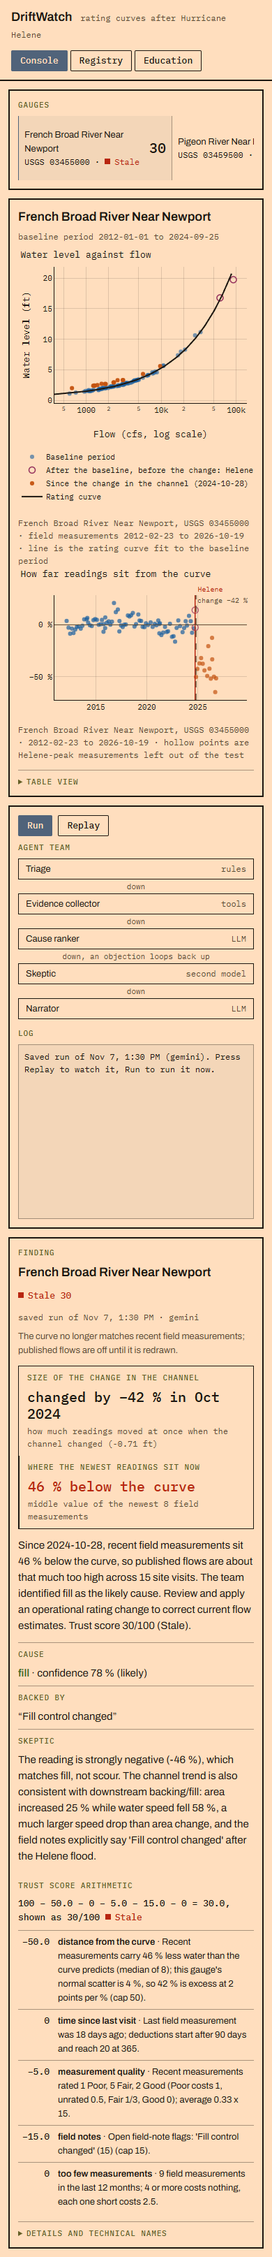
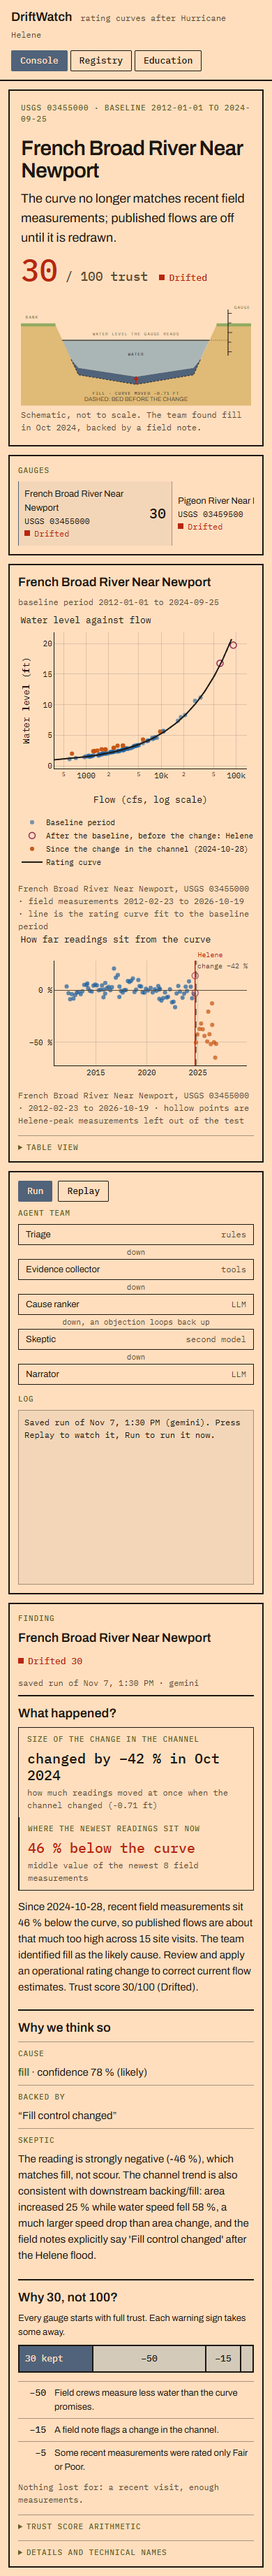
console-redesign: Gemini eval column, redesign screenshots

Changed region(s): [[0.0308, 0.0, 0.9538, 1.0], [0.9231, 0.5881, 0.9538, 0.65]]

diff --git a/docs/eval_report.md b/docs/eval_report.md
@@ -1,29 +1,30 @@
 # DriftWatch eval report
 
-Generated 2026-11-07 23:56 UTC by `make evals` on thoth (aarch64). Cases: `evals/cases.yaml`; runner: `evals/run_evals.py`.
+Generated 2026-11-08 00:05 UTC by `make evals` on DESKTOP-4F7F34V (AMD64). Cases: `evals/cases.yaml`; runner: `evals/run_evals.py`.
 
-**LLM=fallback: 11/13 pass**, 71 s total. Each cell gives pass/fail, the case's wall time, and what was checked.
+**LLM=fallback: 11/13 pass**, 252 s total. Each cell gives pass/fail, the case's wall time, and what was checked.
 
 Cases 4 and 9-13 never call an LLM (deterministic report, synthetic data, replay), so their result is the same in every column. The LLM=gemini column is filled by `make evals LLM=gemini` on the laptop (needs the Vertex credentials).
 
 | # | Case | LLM=fallback | LLM=gemini |
 |---|---|---|---|
-| 1 | Newport - Stale, fill, cites the field note | PASS (3.6 s) band Stale (want Stale); cause fill (0.44); 'Fill control changed' cited as fill evidence | [run on laptop] |
-| 2 | Hepco - Stale, Disagreement against the scour note | PASS (6.1 s) band Stale (want Stale); Disagreement yes; field note 'Scour control changed' (2024-12-17); best guess fill | [run on laptop] |
-| 3 | Asheville - Stale, cause open, no mechanism named | PASS (7.4 s) band Stale (want Stale); cause_status open; no mechanism words | [run on laptop] |
-| 4 | Mills - Watch, significant lower trend, no step | PASS (29.9 s) band Watch (want Watch); 0 shift(s) in the whole series; trend -0.84 %/yr, p 3.9e-13, CI -1.10..-0.60, significant=True | [run on laptop] |
-| 5 | Swannanoa - Trusted, no cause | PASS (4.2 s) band Trusted (want Trusted); no cause named | [run on laptop] |
-| 6 | South Toe - Trusted, no cause | PASS (3.9 s) band Trusted (want Trusted); no cause named | [run on laptop] |
-| 7 | Watauga - Trusted, no cause | PASS (3.4 s) band Trusted (want Trusted); no cause named | [run on laptop] |
-| 8 | Eno - Trusted, no cause | PASS (2.1 s) band Trusted (want Trusted); no cause named | [run on laptop] |
-| 9 | Eno + synthetic +25 % step at 2025-07-01 - fires | **FAIL** (1.2 s) no positive shift near 2025-07-01; shifts: 2022-09-06 -17 %, 2022-11-28 +24 % | [run on laptop] |
-| 10 | Eno + synthetic -1.5 %/yr slope - trend fires, no step | **FAIL** (1.4 s) 1 shift(s) in the whole series; trend -1.41 %/yr, p 0.54, CI -4.99..+8.21, significant=False | [run on laptop] |
-| 11 | Eno flat (resampled reference residuals, seed 0) - 0 shifts | PASS (4.9 s) 0 shift(s) in the whole series | [run on laptop] |
-| 12 | Replay determinism | PASS (0.5 s) two fallback runs identical; 03459500-20261107T180218430129Z.json: 20 events replay identically twice | [run on laptop] |
-| 13 | Swannanoa + synthetic +25 % step at 2025-01-01 - fires | PASS (2.7 s) shift 2025-06-11 +31.0 % (+0.14 ft) | [run on laptop] |
+| 1 | Newport - Stale, fill, cites the field note | PASS (0.3 s) band Stale (want Stale); cause fill (0.44); 'Fill control changed' cited as fill evidence | PASS (44.2 s) band Stale (want Stale); cause fill (0.84); 'Fill control changed' cited as fill evidence |
+| 2 | Hepco - Stale, Disagreement against the scour note | PASS (0.7 s) band Stale (want Stale); Disagreement yes; field note 'Scour control changed' (2024-12-17); best guess fill | **FAIL** (64.1 s) Disagreement no; band Stale (want Stale) |
+| 3 | Asheville - Stale, cause open, no mechanism named | PASS (0.8 s) band Stale (want Stale); cause_status open; no mechanism words | PASS (103.9 s) band Stale (want Stale); cause_status open; no mechanism words |
+| 4 | Mills - Watch, significant lower trend, no step | PASS (2.3 s) band Watch (want Watch); 0 shift(s) in the whole series; trend -0.84 %/yr, p 3.9e-13, CI -1.10..-0.60, significant=True | same as fallback (no LLM) |
+| 5 | Swannanoa - Trusted, no cause | PASS (0.4 s) band Trusted (want Trusted); no cause named | PASS (9.6 s) band Trusted (want Trusted); no cause named |
+| 6 | South Toe - Trusted, no cause | PASS (0.4 s) band Trusted (want Trusted); no cause named | PASS (9.1 s) band Trusted (want Trusted); no cause named |
+| 7 | Watauga - Trusted, no cause | PASS (0.4 s) band Trusted (want Trusted); no cause named | PASS (8.2 s) band Trusted (want Trusted); no cause named |
+| 8 | Eno - Trusted, no cause | PASS (0.2 s) band Trusted (want Trusted); no cause named | PASS (6.3 s) band Trusted (want Trusted); no cause named |
+| 9 | Eno + synthetic +25 % step at 2025-07-01 - fires | **FAIL** (0.2 s) no positive shift near 2025-07-01; shifts: 2022-09-06 -17 %, 2022-11-28 +24 % | same as fallback (no LLM) |
+| 10 | Eno + synthetic -1.5 %/yr slope - trend fires, no step | **FAIL** (0.2 s) 1 shift(s) in the whole series; trend -1.41 %/yr, p 0.54, CI -4.99..+8.21, significant=False | same as fallback (no LLM) |
+| 11 | Eno flat (resampled reference residuals, seed 0) - 0 shifts | PASS (0.5 s) 0 shift(s) in the whole series | same as fallback (no LLM) |
+| 12 | Replay determinism | PASS (0.1 s) two fallback runs identical; 03459500-20261107T180218430129Z.json: 20 events replay identically twice | same as fallback (no LLM) |
+| 13 | Swannanoa + synthetic +25 % step at 2025-01-01 - fires | PASS (0.3 s) shift 2025-06-11 +31.0 % (+0.14 ft) | same as fallback (no LLM) |
 
 ## Why the failures fail
 
+- **2. Hepco - Stale, Disagreement against the scour note:** not diagnosed yet.
 - **9. Eno + synthetic +25 % step at 2025-07-01 - fires:** Eno's own recent gaugings already sit about 10 % below the rating, so the +25 % step lands them only about +10-15 % above it, and there are 8 searched gaugings after 2025-07-01. At penalty 50 and Eno's scatter, 8 points at that size don't pay for a change point (no shift at 2025-07 even with the gate off). The search splits Eno's 2022 blip instead. Gauge stays Trusted.
 - **10. Eno + synthetic -1.5 %/yr slope - trend fires, no step:** The trend method does see the slope: fitted over the whole uncut series it gives -2.5 %/yr, p 2e-7, significant (the injected -1.5 plus Eno's own -0.95). But the slope pushes Eno's 2022-09 blip over the shift gate, so the change-point search reports a -16 % step there; the trend then only fits the 4 years after it and comes out non-significant. A slow slide gets read as a step.
 
